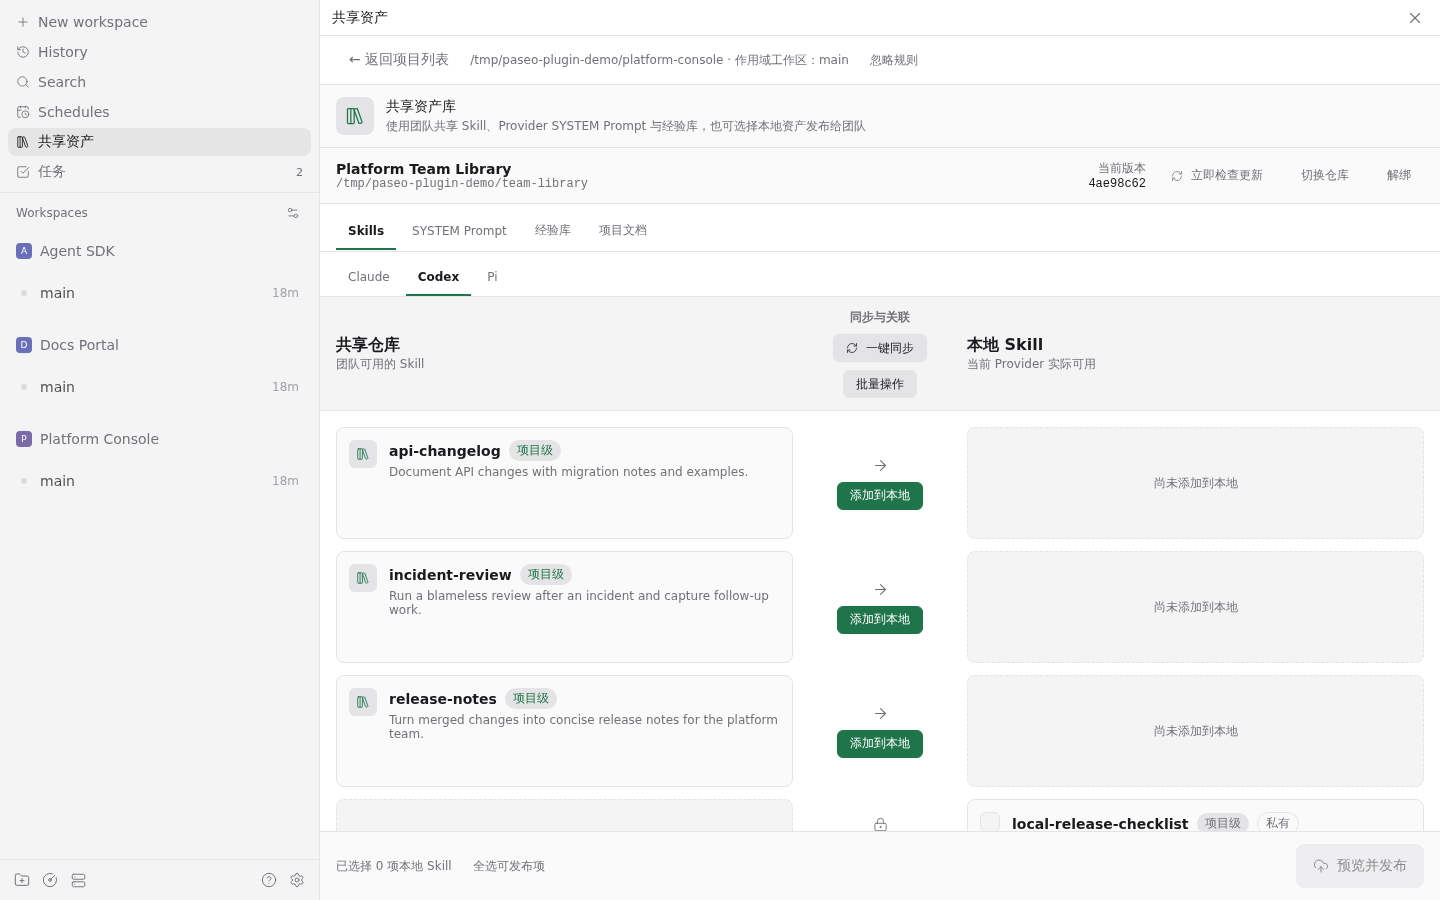
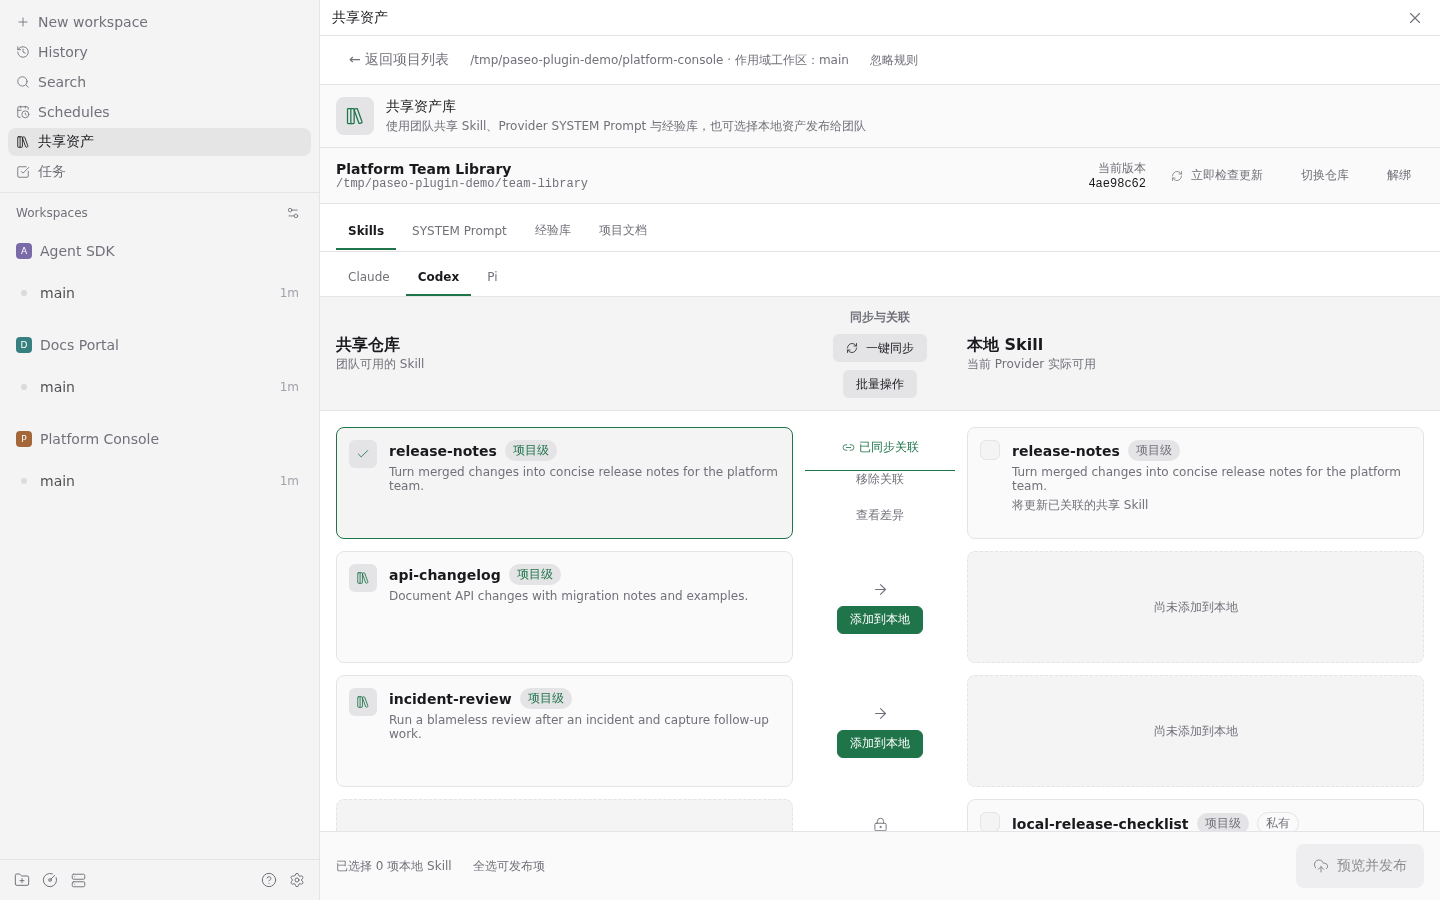
docs(shared-assets): document 0.6.0 symlink model and refresh listing

diff --git a/plugins/shared-assets/README.md b/plugins/shared-assets/README.md
@@ -4,6 +4,8 @@
 `.paseo/`。
 
 团队 Git 仓库中的 Skill、`AGENTS.md`、Knowledge 和 Doc 的项目级投影。
+已发布或已关联的 Skill 只有一个实体，位于 `.paseo/skills/<name>`；Provider 目录是指向
+该实体的相对软链。本地新建、尚未发布的 Skill 留在创建它的 Provider 目录。
 共享库只支持 `skills/project/<name>/`；`skills/global/` 已废弃，即使目录存在也不会
 被扫描或管理。
 
@@ -22,13 +24,15 @@ paseo plugin install /absolute/path/to/paseo-plugins/plugins/shared-assets --hom
 3. 详情顶部显示项目路径、作用域工作区与忽略规则；未绑定时填写 Git URL、分支和同步模式。
 4. 绑定后可同步、重新绑定、解绑；解绑不会删除项目内的受管副本或本地修改。
 5. Skills / SYSTEM Prompt / 经验库 / 项目文档按资产类型与 Provider 分组：
-   - 共享资产可「添加到本地」；同名本地资产显示为候选，可选择「保留本地」或
+   - 共享资产可「添加到本地」；共享 Skill 的实体会写入 `.paseo/skills/<name>`，Provider
+     目录创建指向实体的相对软链；软链不可用时回退复制并标注。
+   - 本地新建、尚未发布的 Skill 留在原 Provider 目录；同名本地资产显示为候选，可选择「保留本地」或
      「使用共享版本」建立关联（adopt）。
    - 已关联资产按 `synced / remote-update / local-update / diverged / remote-deleted`
      展示，并支持同步到本地、选择发布、三方合并、放弃本地修改。
    - 只有本地、尚未进入共享库的资产显示为 `unpublished-local`，卡片会提示
      「本地有未发布内容」，可「选择发布」「放弃本地修改」或「移除关联」。
-   - 「移除关联」可选择是否同时删除本地受管副本；有未保存修改时先给出警告。
+   - 「移除关联」可选择是否同时删除本地 Provider 投影；有未保存修改时先给出警告。
    - 批量模式支持批量关联、批量同步、批量发布和批量解除关联。
 6. 每个资产 tab 底部固定发布栏显示「已选择 N 项本地 <资产类型>」，可全选可发布项并
    预览发布。本地私有资产同样可勾选，预览会显示「将创建新的共享资产」；预览过期
@@ -56,4 +60,5 @@ paseo plugin install /absolute/path/to/paseo-plugins/plugins/shared-assets --hom
 
 Claude 只验证了目录约定，未做真实模型加载；Codex 目录已在 S4 验证。Provider 只要有
 已知的项目级 Skill 目录就会出现在 tabs 中，未验证项会明确标注。共享 `skills/global/`
-不再支持；迁移时只导入受支持的资产类型。
+不再支持；迁移时只导入受支持的资产类型。平台不支持软链时，Provider 目录使用复制，
+界面会标注为复制。

diff --git a/plugins/shared-assets/OVERVIEW.md b/plugins/shared-assets/OVERVIEW.md
@@ -8,15 +8,22 @@ its binding state and the assets that are synced, changed, unpublished or in con
 
 A bound repository contains `team-assets.json` and one or more of `skills/project/<name>/`,
 `knowledge/`, `docs/` and `AGENTS.md`. The plugin clones the repository into its plugin data
-directory, scans those directories, and materializes managed copies into the project's provider
-directories. It keeps a baseline per asset, so the detail view can show whether the shared copy,
-the local copy or both changed.
+directory and scans those directories. A shared or published Skill has one entity at
+`.paseo/skills/<name>`. Provider directories such as `.codex/skills/<name>`,
+`.claude/skills/<name>` and `.pi/skills/<name>` are relative symlinks to that entity. A local,
+not-yet-published Skill stays in the provider directory where it was created. If the platform
+cannot create symlinks, the plugin falls back to a copy and reports that projection as a copy.
+Editing `.paseo/skills/<name>` changes every provider linked to it.
+
+The plugin keeps a baseline per asset, so the detail view can show whether the shared copy, the
+local copy or both changed.
 
 The project detail view groups assets by skills, prompt, knowledge and docs, and by provider. From
 there you can add a shared asset to the project, link an existing local copy, sync changes in either
 direction, compare and merge, publish selected local assets, or remove a link. Batch actions and
-ignore rules are available for larger repositories. Publishing creates a commit in the local
-checkout and reports the push hint; it does not push automatically.
+ignore rules are available for larger repositories. Publishing a local Skill moves it to
+`.paseo/skills/<name>` and links its providers. Publishing creates a commit in the local checkout
+and reports the push hint; it does not push automatically.
 
 ## Setup
 
@@ -31,8 +38,10 @@ checkout and reports the push hint; it does not push automatically.
 
 - Read and write the configured repository checkout under the plugin data directory, and read the
   project workspace when scanning local assets or materializing skills.
-- Write managed copies into the project's provider directories, such as `.paseo/`, `.codex/skills/`
-  and `.claude/skills/`. Files that were not created by the plugin are left alone.
+- Maintain one entity per shared Skill under `.paseo/skills/` and create relative provider links
+  under `.codex/skills/`, `.claude/skills/` and `.pi/skills/`. When symlinks are unavailable, it
+  writes a copy and marks that projection as a copy. Files not created by the plugin are left
+  alone.
 - Credential files such as `.env`, `.npmrc`, private keys and certificate files are excluded from
   scanning, diffs, publish previews and commits.
 - Network access is limited to the configured Git remote. No telemetry is sent.

diff --git a/plugins/shared-assets/OVERVIEW.zh-CN.md b/plugins/shared-assets/OVERVIEW.zh-CN.md
@@ -7,13 +7,18 @@
 ## 工作方式
 
 绑定的仓库包含 `team-assets.json`，以及 `skills/project/<name>/`、`knowledge/`、`docs/`、
-`AGENTS.md` 中的一项或多项。插件把仓库克隆到自己的插件数据目录，扫描这些目录，并把受管副本
-投影到项目对应的 Provider 目录。每个资产保留一份基线，因此详情页可以判断共享副本和本地副本
-各自是否发生了变化。
+`AGENTS.md` 中的一项或多项。插件把仓库克隆到自己的插件数据目录并扫描这些目录。已发布或
+已关联的 Skill 只有一个实体，位于 `.paseo/skills/<name>`；`.codex/skills/<name>`、
+`.claude/skills/<name>`、`.pi/skills/<name>` 等 Provider 目录是指向该实体的相对软链。
+本地新建、尚未发布的 Skill 留在创建它的 Provider 目录。平台无法创建软链时，插件回退为
+复制，并把该投影标记为复制。修改 `.paseo/skills/<name>` 会同时影响所有已投影的 Provider。
+
+每个资产保留一份基线，因此详情页可以判断共享副本和本地副本各自是否发生了变化。
 
 项目详情按 Skills、Prompt、经验库、文档以及 Provider 分组。可以添加共享资产、关联已有本地
 副本、双向同步、比较与合并、发布选中的本地资产，或解除关联。较大仓库可以使用批量操作和忽略
-规则。发布会创建本地提交并提示推送方式，不会自动推送。
+规则。发布本地 Skill 时，插件会把它移动到 `.paseo/skills/<name>` 并链接其 Provider。
+发布会创建本地提交并提示推送方式，不会自动推送。
 
 ## 配置
 
@@ -26,8 +31,9 @@
 ## 能力与限制
 
 - 读写插件数据目录中的仓库 checkout；扫描本地资产或投影 Skills 时读取项目工作区。
-- 把受管副本写入项目对应的 Provider 目录，例如 `.paseo/`、`.codex/skills/` 和
-  `.claude/skills/`。不是由插件创建的文件不会被改动。
+- 在 `.paseo/skills/` 中维护每个共享 Skill 的唯一实体，并在 `.codex/skills/`、
+  `.claude/skills/`、`.pi/skills/` 等 Provider 目录创建相对软链。平台不支持软链时改为复制，
+  并把该投影标记为复制。不是由插件创建的文件不会被改动。
 - 扫描、diff、发布预览和提交都会排除 `.env`、`.npmrc`、私钥和证书等凭据文件。
 - 网络访问仅限配置的 Git 远端；不发送遥测数据。
 - 发布产生的提交保留在本地，直到有人推送仓库；插件不会强制推送。合并冲突需要在插件内或

diff --git a/README.md b/README.md
@@ -211,18 +211,19 @@ $PASEO_HOME/plugin-data/paseo-shared-assets/
 
 ## 投影
 
-| 资产             | 项目位置                                          |
-| ---------------- | ------------------------------------------------- |
-| Skill            | `.codex/skills/<name>/`、`.claude/skills/<name>/` |
-| 共享 `AGENTS.md` | `.paseo/AGENTS.md`（canonical）                   |
-| Codex 入口       | 项目根 `AGENTS.md`（符号链接，失败时受管副本）    |
-| Claude 入口      | `.claude/CLAUDE.md`（符号链接，失败时受管副本）   |
+| 资产             | 项目位置                                                                |
+| ---------------- | ----------------------------------------------------------------------- |
+| Skill            | `.paseo/skills/<name>/`（唯一实体）                                     |
+| Provider 软链    | `.codex/skills/<name>/`、`.claude/skills/<name>/`、`.pi/skills/<name>/` |
+| 共享 `AGENTS.md` | `.paseo/AGENTS.md`（canonical）                                         |
+| Codex 入口       | 项目根 `AGENTS.md`（符号链接，失败时受管副本）                          |
+| Claude 入口      | `.claude/CLAUDE.md`（符号链接，失败时受管副本）                         |
 
 规则：
 
 - 已存在的用户文件进入冲突，不覆盖。
 - 内容一致时不重复写盘。
-- 停用 Skill 只删除基线未变的受管副本；本地改过的副本保留。
+- 停用 Skill 只删除插件创建的 Provider 软链；回退为复制时只删除基线未变的副本。
 - 停用/解绑指令入口只删除本插件创建的链接/受管副本，保留 `.paseo/AGENTS.md`。
 - 解绑时若 checkout 有未提交改动或未推送提交会被拒绝；推送或显式 `force` 后才能解绑。
 - 卸载插件不删除任何项目内文件。
